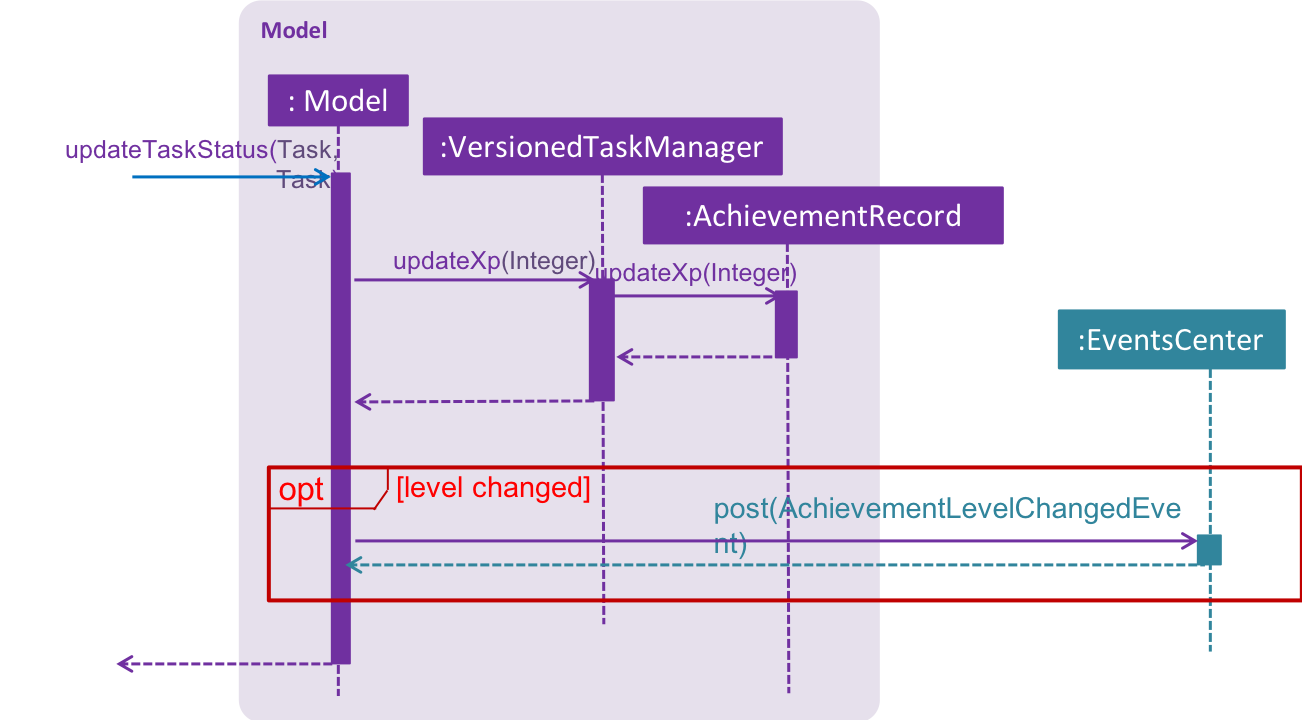
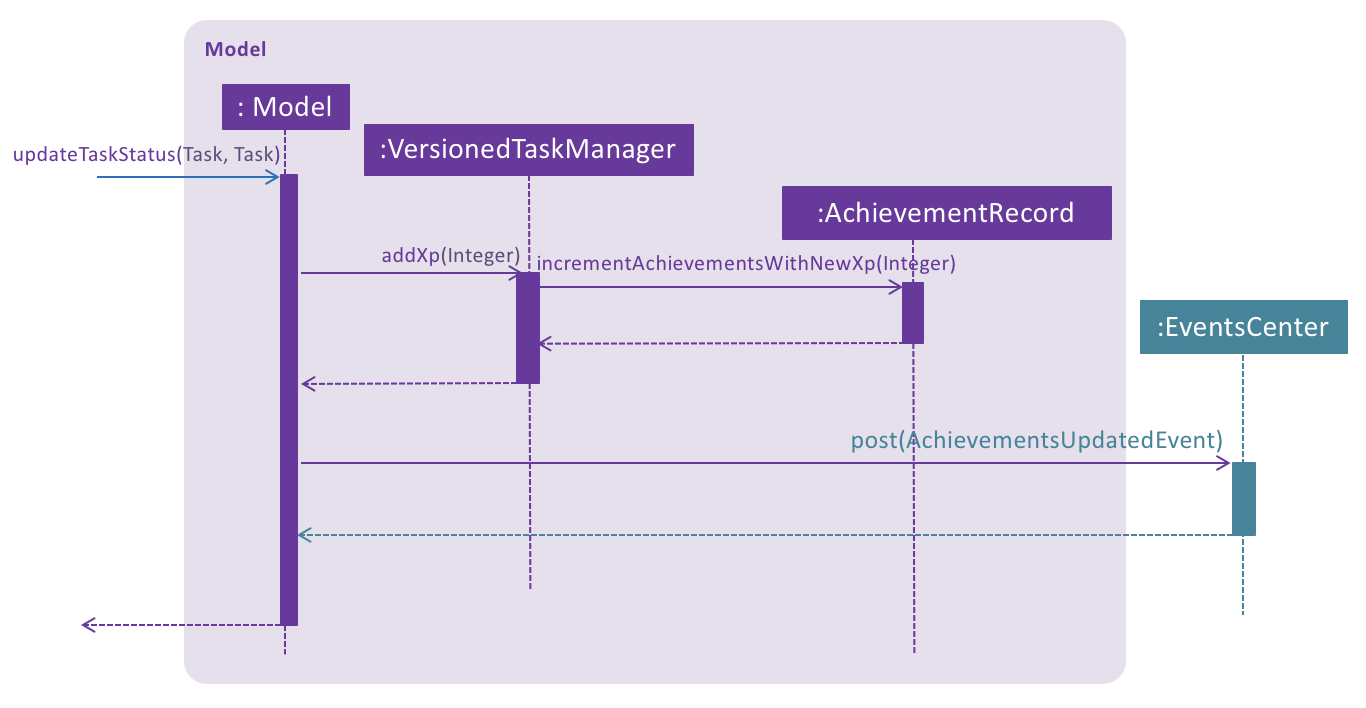
Rebuild pages at 75964efdd3abd874c52d034857ee1afef53752dd

diff --git a/DeveloperGuide.html b/DeveloperGuide.html
@@ -1148,11 +1148,17 @@ Optionally, you can set up AppVeyor as a second CI (see UsingAppVeyor.adoc).</p>
 <h4 id="3-1-1-structural-overview"><a class="link" href="#3-1-1-structural-overview">3.1.1. Structural Overview</a></h4>
 <div class="paragraph">
 <p>The achievement mechanism is facilitated by <code>AchievementRecord</code>. TaskManager is now composed of a <code>UniqueTaskList</code> as
-well as an <code>AchievementRecord</code>. It stores the achievement information of the user internally with an <code>Xp</code> field and a
-<code>Level</code> field.<br>
+well as an <code>AchievementRecord</code>.<br>
 <br>
-When the task manager application runs for the first time, it is initialized at 0 xp and level 1, xp and level
-information in <code>AchievementRecord</code> are updated subsequently when tasks are completed.<br>
+<code>AchievementRecord</code> stores the achievement information of the user internally. These information include
+the current <code>Xp</code>, current <code>Level</code>, total number of tasks completed, as well as the xp earned and number of tasks
+completed by the user today and this week. To facilitate the tracking of the time-based achievements(xp earned and number of
+tasks completed by today and this week), <code>AchievementRecord</code> also stores the dates when the time-based achievement fields should
+be reset.<br>
+<br>
+<code>AchievementRecord</code> also contains a field <code>displayOption</code> that specifies which set of achievement information should be
+displayed on UI. The field is updated through the <code>achievements all-time</code>, <code>achievements today</code> or
+<code>achievement this week</code> commands.<br>
 <br>
 The storage of the <code>AchievementRecord</code> is facilitated by <code>XmlAdaptedAchievementRecord</code> which is saved together with
 the list of <code>XmlAdaptedTask</code> in the <code>SerializableTaskManager</code>.<br>
@@ -1170,11 +1176,19 @@ Integration of AchievementRecord in Model component:</p>
 <div class="paragraph">
 <p>An <code>updateTaskStatus</code> method is implemented in <code>ModelManager</code> and exposed in the <code>Model</code> interface, this method is
 called in the execution of complete command. Upon completion of a task, the status of task is updated to COMPLETED,
-along with that, the <code>AchievementRecord</code> is also updated with higher Xp. <code>AchievementRecord</code> implements the operations
-<code>updateXp</code>, <code>getMatchingLevel</code> and <code>updateLevelWithXp</code> to update xp, recalculate the level corresponding to the
-new Xp value and update level information.<br>
+along with that, the <code>AchievementRecord</code> is also updated with the new xp. Current xp, number of tasks completed
+increases, current level is recalculated and updated to match current xp. As the time based achievement fields should
+be reset every day or week, checks are performed and the fields are reset if necessary. Xp earned and number of tasks
+completed today and this week is then increased as well.<br>
 <br>
-Sequence diagram of the achievement mechanism:</p>
+An <code>updateAchievementDisplayOption</code> method is implemented in <code>ModelManager</code> and exposed in the <code>Model</code> interface, which
+is called in the execution of the achievements command. Before the <code>displayOption</code> field of the <code>AchievementRecord</code> is
+updated, checks are perform to reset the time based achievement fields if necessary as well to ensure that they are up
+to date. The <code>displayOption</code> is then updated, an <code>AchievementsUpdatedEvent</code> is posted to notify UI, who then display
+the set of achievement information as specified by user&#8217;s command.<br></p>
+</div>
+<div class="paragraph">
+<p>Sequence diagram of the achievement mechanism:</p>
 </div>
 <div class="imageblock">
 <div class="content">
@@ -1187,11 +1201,11 @@ Sequence diagram of the achievement mechanism:</p>
 </div>
 </div>
 <div class="paragraph">
-<p>Activity diagram of updating of xp and level:</p>
+<p>Activity diagram of the update of time-based achievement fields:</p>
 </div>
 <div class="imageblock">
 <div class="content">
-<img src="images/AchievementActivity.png" alt="AchievementActivity" width="1200">
+<img src="images/AchievementActivity.png" alt="AchievementActivity" width="500">
 </div>
 </div>
 </div>
@@ -1203,9 +1217,9 @@ When a task is marked as complete, both the <code>UniqueTaskList</code> and the 
 to reflect the new status of the task and the new xp and level information. A <code>TaskManagerChangedEvent</code> is then posted
 to <code>EventsCenter</code> and handled by both Storage and UI components to save the changes and feedback to user.<br>
 <br>
-On top of the <code>TaskManagerChangedEvent</code>, an <code>AchievementLevelChangedEvent</code> would be posted by the Model component as
-well, if the user levels up with the newly added xp. This event will be handled by UI component to display a
-congratulatory message to user. (to be implemented in v1.3)</p>
+On top of the <code>TaskManagerChangedEvent</code>, an <code>AchievementsUpdatedEvent</code> is posted by the Model component every time
+the <code>AchievementRecord</code> is update(on task completion or change of display option). This event is handled by the
+<code>AchievementPanel</code> UI component which then update the achievement information displayed.</p>
 </div>
 </div>
 <div class="sect3">
@@ -1245,6 +1259,47 @@ information is handled by <code>AchievementRecord</code> independently.</p>
 <p>Cons: Logic is duplicated twice. For example, we would need to implement a <code>VersionedAchievementRecord</code> besides
 the current <code>VersionedTaskManager</code> to support undo/redo. A lot of overhead will result from the communication
 between <code>TaskManager</code> and <code>AchievementRecord</code> as well.</p>
+</li>
+</ul>
+</div>
+</li>
+</ul>
+</div>
+<div class="paragraph">
+<p>Aspect: Managing display option of <code>AchievementRecord</code>.<br></p>
+</div>
+<div class="ulist">
+<ul>
+<li>
+<p>Alternative 1 (current choice): Use and additional field <code>displayOption</code> in <code>AchievementRecord</code> to keep track of
+display option. The field is updated when user uses the <code>achievements all-time</code>, <code>achievements today</code> or <code>achievement
+this week</code> commands to specify their choices.</p>
+<div class="ulist">
+<ul>
+<li>
+<p>Pros: As the display option is saved inside the <code>AchievementRecord</code> of <code>TaskManager</code>, undo/redo of the
+achievements command is easily supported. <code>AchievementPanel</code> UI component can simple decide which set of
+achievements to display based on the current value of the <code>displayOption</code> field.</p>
+</li>
+<li>
+<p>Cons: <code>AchievementRecord</code> needs to save the display option besides the achievement information, this breaks the
+Single Responsibility Principle.</p>
+</li>
+</ul>
+</div>
+</li>
+<li>
+<p>Alternative 2: Use <code>AchievementPanel</code> UI component to save and manage the update of display option.</p>
+<div class="ulist">
+<ul>
+<li>
+<p>Pros: Follows Single Responsibility Principle. <code>AchievementRecord</code> handles only achievement information. Greater
+cohesion as the display of achievements is handled by the <code>AchievementPanel</code> UI component alone.</p>
+</li>
+<li>
+<p>Cons: <code>AchievementPanel</code> needs to save the states of the <code>displayOption</code> to support undo/redo. Undo/redo of
+the achievements command needs to be implemented and handled separately from all other commands, breaks
+abstraction.</p>
 </li>
 </ul>
 </div>
@@ -1974,4 +2029,4 @@ Suggested path for new programmers:</p>
 </div>
 </div>
 </div>
-</div></div><div id="footer"><div class="container"><div id="footer-text">Last updated 2018-11-01 20:45:11 SRET</div></div></div></body></html>
+</div></div><div id="footer"><div class="container"><div id="footer-text">Last updated 2018-11-01 20:53:51 SRET</div></div></div></body></html>

diff --git a/ContactUs.html b/ContactUs.html
@@ -12,4 +12,4 @@
 <p><strong>Email us</strong> : You can also reach us at <code>damith [at] comp.nus.edu.sg</code></p>
 </li>
 </ul>
-</div></div><div id="footer"><div class="container"><div id="footer-text">Last updated 2018-11-01 20:45:11 SRET</div></div></div></body></html>
+</div></div><div id="footer"><div class="container"><div id="footer-text">Last updated 2018-11-01 20:53:51 SRET</div></div></div></body></html>

diff --git a/LearningOutcomes.html b/LearningOutcomes.html
@@ -542,4 +542,4 @@ class gives some examples of how to use <em>Equivalence Partitions</em>, <em>Bou
 </div>
 </div>
 </div>
-</div></div><div id="footer"><div class="container"><div id="footer-text">Last updated 2018-11-01 20:45:11 SRET</div></div></div></body></html>
+</div></div><div id="footer"><div class="container"><div id="footer-text">Last updated 2018-11-01 20:53:51 SRET</div></div></div></body></html>

diff --git a/HelpWindow.html b/HelpWindow.html
@@ -414,4 +414,4 @@ Format: <code>achievements TIME_SPAN</code>, a valid TIME_SPAN may take the vale
 </ul>
 </div>
 </div>
-</div></div><div id="footer"><div class="container"><div id="footer-text">Last updated 2018-11-01 20:45:11 SRET</div></div></div></body></html>
+</div></div><div id="footer"><div class="container"><div id="footer-text">Last updated 2018-11-01 20:53:51 SRET</div></div></div></body></html>

diff --git a/UserGuide.html b/UserGuide.html
@@ -414,4 +414,4 @@ Format: <code>achievements TIME_SPAN</code>, a valid TIME_SPAN may take the vale
 </ul>
 </div>
 </div>
-</div></div><div id="footer"><div class="container"><div id="footer-text">Last updated 2018-11-01 20:45:11 SRET</div></div></div></body></html>
+</div></div><div id="footer"><div class="container"><div id="footer-text">Last updated 2018-11-01 20:53:51 SRET</div></div></div></body></html>

diff --git a/UsingGradle.html b/UsingGradle.html
@@ -255,4 +255,4 @@ See <code>build.gradle</code> &#8594; <code>allprojects</code> &#8594; <code>dep
 </ul>
 </div>
 </div>
-</div></div><div id="footer"><div class="container"><div id="footer-text">Last updated 2018-11-01 20:45:11 SRET</div></div></div></body></html>
+</div></div><div id="footer"><div class="container"><div id="footer-text">Last updated 2018-11-01 20:53:51 SRET</div></div></div></body></html>

diff --git a/UsingNetlify.html b/UsingNetlify.html
@@ -123,4 +123,4 @@ The publish directory is the directory in which the built HTML documentation res
 </ol>
 </div>
 </div>
-</div></div><div id="footer"><div class="container"><div id="footer-text">Last updated 2018-11-01 20:45:11 SRET</div></div></div></body></html>
+</div></div><div id="footer"><div class="container"><div id="footer-text">Last updated 2018-11-01 20:53:51 SRET</div></div></div></body></html>

diff --git a/UsingCoveralls.html b/UsingCoveralls.html
@@ -96,4 +96,4 @@ If you have not set up Travis CI, see <a href="UsingTravis.html">UsingTravis.ado
 </ol>
 </div>
 </div>
-</div></div><div id="footer"><div class="container"><div id="footer-text">Last updated 2018-11-01 20:45:11 SRET</div></div></div></body></html>
+</div></div><div id="footer"><div class="container"><div id="footer-text">Last updated 2018-11-01 20:53:51 SRET</div></div></div></body></html>

diff --git a/team/chikchengyao.html b/team/chikchengyao.html
@@ -171,4 +171,4 @@
 <p><em>{Optionally, you may include other projects in your portfolio.}</em></p>
 </div>
 </div>
-</div></div><div id="footer"><div class="container"><div id="footer-text">Last updated 2018-11-01 20:45:11 SRET</div></div></div></body></html>
+</div></div><div id="footer"><div class="container"><div id="footer-text">Last updated 2018-11-01 20:53:51 SRET</div></div></div></body></html>

diff --git a/team/jiaxiu11.html b/team/jiaxiu11.html
@@ -171,4 +171,4 @@
 <p><em>{Optionally, you may include other projects in your portfolio.}</em></p>
 </div>
 </div>
-</div></div><div id="footer"><div class="container"><div id="footer-text">Last updated 2018-11-01 20:45:11 SRET</div></div></div></body></html>
+</div></div><div id="footer"><div class="container"><div id="footer-text">Last updated 2018-11-01 20:53:51 SRET</div></div></div></body></html>

diff --git a/team/pengnam.html b/team/pengnam.html
@@ -171,4 +171,4 @@
 <p><em>{Optionally, you may include other projects in your portfolio.}</em></p>
 </div>
 </div>
-</div></div><div id="footer"><div class="container"><div id="footer-text">Last updated 2018-11-01 20:45:11 SRET</div></div></div></body></html>
+</div></div><div id="footer"><div class="container"><div id="footer-text">Last updated 2018-11-01 20:53:51 SRET</div></div></div></body></html>

diff --git a/team/remo5000.html b/team/remo5000.html
@@ -171,4 +171,4 @@
 <p><em>{Optionally, you may include other projects in your portfolio.}</em></p>
 </div>
 </div>
-</div></div><div id="footer"><div class="container"><div id="footer-text">Last updated 2018-11-01 20:45:11 SRET</div></div></div></body></html>
+</div></div><div id="footer"><div class="container"><div id="footer-text">Last updated 2018-11-01 20:53:51 SRET</div></div></div></body></html>
